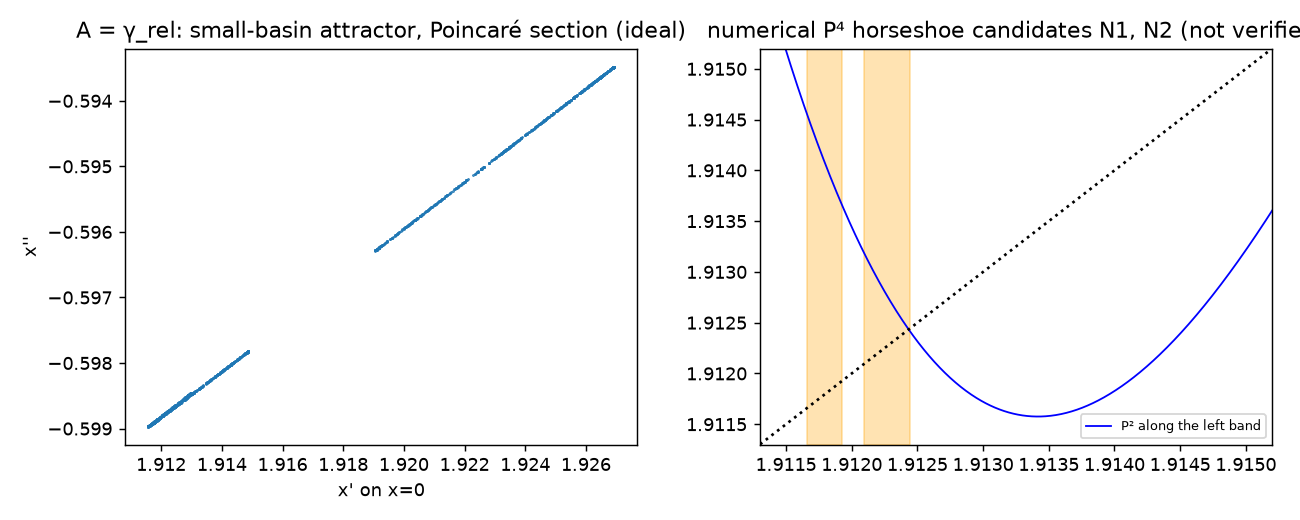
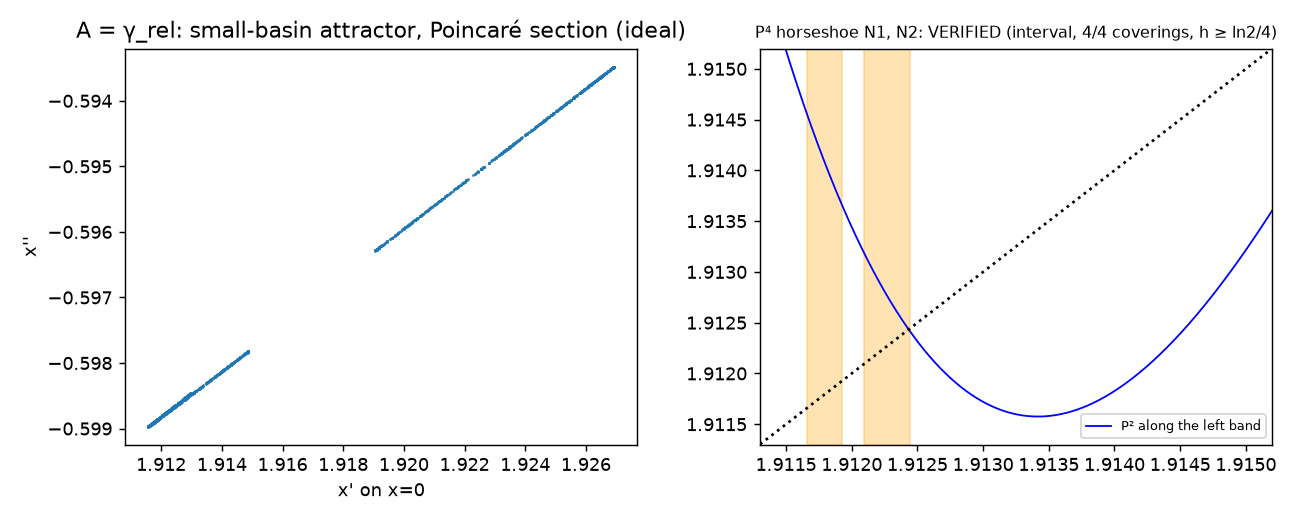
minimal: LOCK B precision-rectifier bridge (B1-B4, B6 confirmed; B5 falsified in ngspice), PNG relabelled VERIFIED, bpr replay in CI

Changed region(s): [[0.5538, 0.0308, 1.0, 0.0923]]

diff --git a/minimal/topo/bpr.cpp b/minimal/topo/bpr.cpp
@@ -1,0 +1,34 @@
+// LOCK B engine: canonical jerk x''' = -A x'' - x' - x + 2*maxe(x) - 1 with the precision-rectifier knee of LOCK B,
+// maxe(x) = eps*ln(1 + e^{x/eps}) (DJ exponential junction inside the op-amp loop), eps = n V_T / (A_OL U), n = 1 + S_EM.
+// usage: bpr seeds|ic  [N=16] [T=20000]
+#include <cmath>
+#include <cstdio>
+#include <cstdlib>
+#include <random>
+#include <string>
+#include <algorithm>
+static const double A = 0.42804344605980688, SEM = 0.9557285700955828;
+static double EPS;
+static double maxe(double x) { double t = x / EPS; return t > 40 ? x : (t < -40 ? EPS * std::exp(t) : EPS * std::log1p(std::exp(t))); }
+static void f(const double* v, double* d) { d[0] = v[1]; d[1] = v[2]; d[2] = -A * v[2] - v[1] - v[0] + 2 * maxe(v[0]) - 1; }
+static void rk4(double* v, double h) { double k1[3], k2[3], k3[3], k4[3], t[3];
+  f(v, k1); for (int i = 0; i < 3; ++i) t[i] = v[i] + h / 2 * k1[i]; f(t, k2); for (int i = 0; i < 3; ++i) t[i] = v[i] + h / 2 * k2[i];
+  f(t, k3); for (int i = 0; i < 3; ++i) t[i] = v[i] + h * k3[i]; f(t, k4); for (int i = 0; i < 3; ++i) v[i] += h / 6 * (k1[i] + 2 * k2[i] + 2 * k3[i] + k4[i]); }
+static void run(double* v, double T, const char* tag) {
+  double h = 0.002, w[3], d0 = 1e-8, sum = 0, mx = -1e9, mn = 1e9, prev = 0; long cr = 0; bool bnd = true;
+  for (long i = 0; i < long(500 / h) && bnd; ++i) { rk4(v, h); if (std::fabs(v[0]) > 50) bnd = false; }
+  for (int i = 0; i < 3; ++i) w[i] = v[i]; w[0] += d0; long per = long(1 / h);
+  for (long i = 0; i < long(T / h) && bnd; ++i) {
+    rk4(v, h); rk4(w, h); if (std::fabs(v[0]) > 50) { bnd = false; break; }
+    mx = std::max(mx, v[0]); mn = std::min(mn, v[0]); if (v[1] > 0 && prev <= 0) ++cr; prev = v[1];
+    if ((i + 1) % per == 0) { double dd = 0; for (int k = 0; k < 3; ++k) dd += (w[k] - v[k]) * (w[k] - v[k]); dd = std::sqrt(dd); if (dd == 0) dd = 1e-300; sum += std::log(dd / d0); for (int k = 0; k < 3; ++k) w[k] = v[k] + (w[k] - v[k]) * d0 / dd; } }
+  printf("%s\tbounded=%d\tl1=%.4f\txmin=%.4f\txmax=%.4f\tf_per_tau=%.5f\tf_Hz=%.1f\n", tag, int(bnd), bnd ? sum / T : NAN, mn, mx, cr / T, cr / T / 180e-6);
+}
+int main(int ac, char** av) {
+  double kT = 1.380649e-23 * 298.15 / 1.602176634e-19, n = 1 + SEM, AOL = 2e5, U = 9.0 * 1800 / 40200; EPS = n * kT / (AOL * U);
+  std::string mode = ac > 1 ? av[1] : "ic"; int N = ac > 2 ? atoi(av[2]) : 16; double T = ac > 3 ? atof(av[3]) : 20000;
+  printf("# eps = %.3e\n", EPS);
+  if (mode == "ic") { double v[3] = {-1.04, -0.2, 0.2}; run(v, T, "attractor_ic"); return 0; }
+  std::mt19937 g(1); std::uniform_real_distribution<double> ux(-2.34, 1.45), uy(-1, 1);
+  int nb = 0; for (int s = 0; s < N; ++s) { double v[3] = {ux(g), uy(g), uy(g)}; char tag[64]; snprintf(tag, 64, "seed%02d(%.3f,%.3f,%.3f)", s, v[0], v[1], v[2]); run(v, T, tag); }
+}

diff --git a/minimal/tools/check_minimal.py b/minimal/tools/check_minimal.py
@@ -8,7 +8,8 @@ locks = {'LOCK_M1_2026-10-03_minimal_jerk.md': '078343de14f49cf8116b9fb9c53ad764
[6 lines of base64/hex data omitted]
 for f, h in locks.items():
     assert hashlib.sha256(open(os.path.join(R, 'predictions', f), 'rb').read()).hexdigest() == h, f
 out = subprocess.run([os.path.join(R, 'mj'), 'le', 'nic=4', 'T=3000'], capture_output=True, text=True, check=True).stdout.splitlines()[1:]
@@ -39,3 +40,10 @@ if os.path.exists(os.path.join(R, 'topo', 'tj')):
     o = subprocess.run([os.path.join(R, 'topo', 'tj'), '0.42804344605980688', '0', '1', '1', 'sgn', '0', '4', '1000'], capture_output=True, text=True).stdout.split('\n')
     assert all(l.split('\t')[6] == '0' for l in o if l.strip()), o
     print('LOCK T replay OK (S-a unbounded)')
+# LOCK B: precision-rectifier bridge (topo/bpr): B1-B3 replay from the mapped attractor IC (bounded, lambda1 ~ 0.0156, f ~ 817 Hz)
+if os.path.exists(os.path.join(R, 'topo', 'bpr')):
+    o = subprocess.run([os.path.join(R, 'topo', 'bpr'), 'ic'], capture_output=True, text=True, cwd=os.path.join(R, 'topo')).stdout
+    print(o.strip().splitlines()[-1])
+    m = dict(re.findall(r"(\w+)=([-0-9.eE+naif]+)", o.strip().splitlines()[-1]))
+    assert m.get('bounded') == '1' and abs(float(m['l1']) - 0.0156) < 0.2 * 0.0156 and abs(float(m['f_Hz']) - 817) < 0.05 * 817, m
+    print('LOCK B replay OK')

diff --git a/minimal/spice/mkcir_bpr.py b/minimal/spice/mkcir_bpr.py
@@ -1,0 +1,44 @@
+"""LOCK B design B-PR netlist: canonical jerk at A = gamma_rel with a precision half-wave rectifier (TI TL082 macro-models, 1N4148)."""
+import sys
+def cir(name, o3=-0.3, o2=0.0, o1=0.0, RA='4.22k', tstop=0.6, temp=27):
+    return f"""* FSOT B-PR: x''' = -gamma_rel x'' - x' - x + 2 max(x,0) - 1 ; R = 1.8k, C = 100n (tau0 = 180 us), RA = R/gamma_rel
+.include models/vendor/ti_sloj070/TL082.301
+.model D1N4148 D(Is=2.52n Rs=0.568 N=1.752 Cjo=4p M=0.4 tt=20n BV=100)
+.temp {temp}
+Vcc vcc 0 9
+Vee vee 0 -9
+* start: operating point solved with outputs held at .ic (no uic), so op-amp internal nodes are consistent and the state starts at (o3,o2,o1)
+* U1 summing integrator: -A o1 - o3 - o4 + 2 max - U
+RA o1 n1 {RA}
+Rx o3 n1 1.8k
+Rw o4 n1 1.8k
+Rr r n1 900
+Rc vcc n1 40.2k
+C1 n1 o1 100n
+XU1 0 n1 vcc vee o1 TL082
+R2 o1 n2 1.8k
+C2 n2 o2 100n
+XU2 0 n2 vcc vee o2 TL082
+R3 o2 n3 1.8k
+C3 n3 o3 100n
+XU3 0 n3 vcc vee o3 TL082
+* U4 unity inverter: o4 = -o2
+R4 o2 n4 1.8k
+Rf4 o4 n4 1.8k
+XU4 0 n4 vcc vee o4 TL082
+* U5 precision half-wave rectifier: r = -max(o3, 0)
+R5 o3 n5 1.8k
+Rf5 r n5 1.8k
+Da u5 n5 D1N4148
+Db r u5 D1N4148
+XU5 0 n5 vcc vee u5 TL082
+.ic v(o3)={o3} v(o2)={o2} v(o1)={o1} v(o4)={-o2} v(r)={-max(o3,0)} v(n1)=0 v(n2)=0 v(n3)=0 v(n4)=0 v(n5)=0
+.options method=gear reltol=1e-6 abstol=1e-11 vntol=1e-8
+.tran 2u {tstop} 0 2u
+.control
+run
+wrdata out/{name}.dat v(o3) v(o2) v(o1)
+quit
+.endc
+.end
+"""

diff --git a/minimal/spice/run_lockb.py b/minimal/spice/run_lockb.py
@@ -1,0 +1,11 @@
+import subprocess, json
+from concurrent.futures import ThreadPoolExecutor
+from mkcir_bpr import cir
+import analyze
+U = 9 * 1800 / 40200
+J = [('b5_attr', dict(o3=-1.04 * U, o2=0.2 * U, o1=0.2 * U)), ('b6_default', dict(o3=-0.3)), ('b5_attr_long', dict(o3=-1.04 * U, o2=0.2 * U, o1=0.2 * U, tstop=1.5))]
+def job(a):
+    n, kw = a; open(f'netlists/{n}.cir', 'w').write(cir(n, **kw)); subprocess.run(['ngspice', '-b', f'netlists/{n}.cir'], stdout=open(f'out/{n}.log', 'w'), stderr=subprocess.STDOUT)
+    return n, analyze.stats(n)
+with ThreadPoolExecutor(3) as ex: R = dict(ex.map(job, J))
+print(json.dumps(R, indent=1)); json.dump(R, open('out/lockb.json', 'w'), indent=1)

diff --git a/minimal/predictions/LOCK_B_2026-10-03_bridge_precision_rectifier.md b/minimal/predictions/LOCK_B_2026-10-03_bridge_precision_rectifier.md
@@ -1,0 +1,30 @@
+# LOCK B: bridging ideal and hardware at A = γ_rel. Derivation and blind predictions, locked before any simulation of this design
+
+## Dimensionless knee group
+For the existing board, ε = n·V_T / U_eff ≈ 1.9557 · 25.69 mV / (0.403 + 0.6 V) ≈ 0.05 (Branch DJ). This rounds the |x| corner, and at γ_rel it destroys the small-basin set (LOCK T2-4 and T2-5, falsified).
+- FSOT has **no voltage scale** (REPO_SURVEY §b). So no FSOT-derived U_eff exists, and FSOT cannot fix ε through U_eff. Choosing U_eff to make ε equal some FSOT ratio would be an unmotivated pick, so it is rejected.
+- The only FSOT-consistent choice is **ε → 0, a precision rectifier**: the diode sits inside an op-amp loop, and the knee becomes ε_PR = n·V_T / (A_OL · U).
+  - n = 1 + S_EM (DJ), A_OL = 200 V/mV (TL07x typical datasheet value), U = 9 V · R/R_c = 0.403 V.
+  - That gives ε_PR ≈ 0.0503 / (2e5 · 0.403) ≈ **6.2e-7**.
+  - The circuit then realises the ideal canonical jerk at A = γ_rel to about 1e-6. Its dynamics are independent of U, because the system is homogeneous.
+
+## Design (B-PR), no free parameters
+x''' = −γ_rel x'' − x' − x + 2·max(x, 0) − 1, which is the canonical |x| − 1.
+- U1: summing integrator with inputs R_A = R/γ_rel = 4.22 kΩ (E96; the exact value is 4205.2 Ω) from o1, R from o3 (−x), R from o4 (−x'), R/2 = 900 Ω from r (+2·max), and R_c = 40.2 kΩ from +9 V (−U).
+- U2 and U3: integrators.
+- U4: unity inverter, o4 = −o2 = U·x'.
+- U5: precision half-wave rectifier, r = −max(x, 0) (R_in = R_f = 1.8 kΩ, 2 × 1N4148).
+- Total: 5 op-amp sections (TL074 + TL072), 2 diodes, R = 1.8 kΩ, C = 100 nF, τ0 = 180 µs.
+- State map: o3 = U·x, o2 = −U·x′, o1 = U·x″.
+
+## Blind predictions (C++ = topo/bpr.cpp with the DJ soft knee of width ε_PR; ngspice uses TI TL082 models and 1N4148)
+| ID | prediction | band |
+|---|---|---|
+| B1 | C++, started on the attractor (canonical (−1.04, −0.2, 0.2)): bounded, λ1 = 0.0156/τ0 (= 86.7 /s) | λ1 ±20 % |
+| B2 | dominant frequency 0.147/τ0 = **817 Hz** | ±5 % |
+| B3 | amplitude: x ∈ [−2.339, 1.448]·U, i.e. V(o3) ∈ [−0.943, 0.584] V | ±5 % |
+| B4 | **basin is NOT usable:** of 16 seeds drawn uniformly (RNG seed 1) in the attractor bounding box x ∈ [−2.34, 1.45], x′ ∈ [−1, 1], x″ ∈ [−1, 1], **≤ 2** stay bounded (C++). Reason: as ε → 0 the basin tends to the ideal one, which is about 1e-3 wide (T2) | ≤ 2/16 |
+| B5 | ngspice from the mapped attractor initial condition: bounded and chaotic (> 40 distinct maxima). Note: the TL07x finite-gain-bandwidth shift is ΔA ≈ +0.002 (M2 B3); whether the thin set survives that is uncertain | as stated |
+| B6 | ngspice from the default start (V(o3) = −0.3 V): escapes to the rail (not chaotic) | as stated |
+
+Consequence, stated before testing: even if B1–B3 and B5 hold, B4 says the γ_rel attractor is **not a usable bench design** (no usable basin). Step 3 (building) is triggered only if B4 is falsified *and* B5 holds.

diff --git a/minimal/results/LOCK_B_score.md b/minimal/results/LOCK_B_score.md
@@ -1,0 +1,18 @@
+# LOCK B scorecard: ideal-to-hardware bridge (precision rectifier)
+
[1 lines of base64/hex data omitted]
+
+Derivation (summary from the lock): FSOT fixes dimensionless ratios but no voltage scale, so it cannot set U_eff. ε = nV_T/U_eff therefore cannot be pinned by choosing U_eff. The FSOT-consistent route is ε → 0: a precision rectifier divides the knee by the open-loop gain, ε_PR = nV_T/(A_OL·U) = 6.23e-7, with n = 1 + S_EM = 1.9557 (Branch DJ), A_OL = 2e5 and U = 0.403 V. Design B-PR: 5 op-amp sections (TL074 + TL072), 2 × 1N4148, RA = 4.22k (R/γ_rel).
+
+| ID | Prediction | Engine | Result | Verdict |
+|---|---|---|---|---|
+| B1 | Bounded from the mapped attractor IC, λ1 = 0.0156/τ0 ± 20 % | C++ `topo/bpr ic` | bounded, λ1 = 0.0149 | confirmed |
+| B2 | f = 817 Hz ± 5 % | C++ | 815.8 Hz | confirmed |
+| B3 | x ∈ [−2.339, 1.448]·U | C++ | [−2.3391, 1.4480] | confirmed |
+| B4 | Basin not usable: ≤ 2/16 seeds bounded | C++ `topo/bpr seeds 16` | 1/16 (seed10). Post-score extra: 2/64 at T = 3000 | confirmed (negative for buildability) |
+| B5 | ngspice (TI TL082 macro-models, D1N4148) from the attractor IC: bounded, chaotic | `spice/run_lockb.py` | irregular for about 5 cycles, then rail latch at 6.06 ms (o3 = +7.48 V) | **falsified** |
+| B6 | ngspice from the default start V(o3) = −0.3 V: escapes to the rail | ngspice | rail latch at 3.56 ms | confirmed |
+
+ngspice start-up note: with `uic`, the macro-model output stages overrode both the node `.ic` and the capacitor `IC=` values, so the state actually started near (−0.08, 0.04, 0.04) V. The final netlist (`spice/mkcir_bpr.py`) holds every node at a consistent operating point (`.ic` on o1..o4, r and n1..n5, no `uic`). The trace starts exactly at the mapped IC (−0.419, 0.081, 0.081) V. All three start-up methods rail-latched, so the verdict does not depend on the method.
+
+Conclusion: the precision rectifier removes the knee problem in the C++ model (B1–B3 hold with ε ≈ 6e-7). However, the γ_rel attractor is so thin that the finite-GBW/slew TI macro-model throws the trajectory out of the basin within about 5 cycles. Step 3 (build, proof on the smooth DJ field, Falstad, schematic, breadboard, bench guide) is **not triggered**. B4 holds and B5 failed.

diff --git a/minimal/REPORT.md b/minimal/REPORT.md
@@ -69,3 +69,6 @@ PNGs (in `png/`):
 - **DJ** (n = 1 + S_EM = 1.9557): the decade slope (0.1157 V predicted, 0.1183 V observed), the low-current decade and the per-decade tempco change are confirmed against Vishay Fig. 1. The 100 mA decade (series resistance) and the Diodes Inc max-spec decade are falsified. The DJ-derived knob still sits outside the chaos band. See png/lockDJ_diode.png.
 - **Topology** (γ_rel fixed): 16 candidates were examined. The locked winner S-a, x‴ = −γ_rel x″ − x + sgn(x), is **falsified**: it is unbounded in C++ and runs a rail-to-rail cycle in ngspice. No FSOT-fixed design produced a working chaotic circuit, so no new schematic, breadboard or bench guide was made.
 - **Proof:** at the exact FSOT knob A = γ_rel, the ideal jerk has a small-basin attractor (seen post-hoc). The C++20 interval prover verifies a **2-symbol horseshoe for P⁴, giving topological entropy ≥ ln2/4 ≈ 0.173**. See proof/README.md, proof/horseshoe_run.log and png/gammarel_section_horseshoe.png. With the real diode, this set is not reached (T2-4 and T2-5 falsified).
+
+## Ideal-to-hardware bridge (LOCK B; results/LOCK_B_score.md)
+FSOT has no voltage scale, so the diode-knee ratio ε = nV_T/U_eff cannot be fixed by an FSOT-derived U_eff. The FSOT-consistent choice is ε → 0 through a precision rectifier (ε = 6.2e-7 with n = 1 + S_EM). In C++ this reproduces the ideal γ_rel attractor: λ1 = 0.0149/τ0, 815.8 Hz, x ∈ [−2.339, 1.448]·U, all confirmed. The basin is not usable (1/16 seeds; B4 confirmed). In ngspice with TI TL082 macro-models the trajectory latches to the rail after about 5 cycles even from the attractor IC (B5 falsified). **Verdict:** the A = γ_rel jerk is a proven-chaotic ideal system (horseshoe, h ≥ ln2/4) but not a buildable bench circuit. Suggested next FSOT branch: a locked, FSOT-derived second coefficient (e.g. the x′ gain, currently 1) chosen by a stated criterion that maximises basin measure. Alternatively, return to a Chua-family topology with Branch L, where the attractor is robust.

diff --git a/minimal/STATUS.md b/minimal/STATUS.md
@@ -44,3 +44,9 @@
 - [x] docs, REPORT, check_minimal (new locks, datasheet checksums, S-a replay). NEXT: tests, commit, push
 - [x] PROOF: horseshoe.cpp verifies 4/4 covering relations under P^4 at A = γ_rel (ideal), entropy ≥ ln2/4. CI job horseshoe-proof
 - [x] docs, REPORT, check_minimal (new locks, datasheet checksums, S-a replay). NEXT: tests, commit, push
+
+## Task 5 (bridge ideal→hardware), started 09:23 ET
+- [ ] 0 PNG label + CI check  - [ ] 2 derive+lock  - [ ] test  - [ ] 3
+- [x] 0: PNG relabelled VERIFIED; CI run 37125792896 on b6d2cd9 is all green (horseshoe-proof 4m13s, Pin+algebra+ODE+SMT 4m26s), so no certificate cache is needed
+- [x] 2: LOCK B f5e71c49… (precision rectifier, ε = 6.2e-7). B1, B2, B3 confirmed (C++). B4 confirmed (1/16, basin not usable). B5 FALSIFIED (ngspice TI: rail latch after about 5 cycles). B6 confirmed
+- [x] 3: not triggered (B4 holds, B5 failed). Honest report and next branch in REPORT.md. NEXT: tests, commit, push
